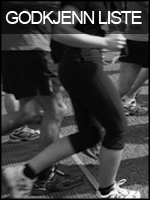
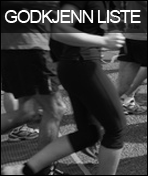
New UI

diff --git a/ITimeU/Content/Site.css b/ITimeU/Content/Site.css
@@ -448,11 +448,11 @@ table th
 ----------------------------------------------------------*/
 .background
 {
-	background-image: url("images/DefaultBG.png");
+	background-image: url("images/bgrunner.png");
 	background-repeat: no-repeat;
 	background-position: top;
 	width: 900px;
-	height: 601px; /*     opacity: .5;     filter: alpha(opacity=50);     -ms-filter: "progid:DXImageTransform.Microsoft.Alpha(Opacity=50)"; */
+	height: 600px;
 }
 .clear
 {
@@ -539,10 +539,24 @@ table th
 	cursor: hand;
 	cursor: pointer;
 }
-.menubg
+.menubg4
 {
-	padding-top: 220px;
-	padding-left: 144px;
+	padding-top: 200px;
+	padding-left: 154px;
+	background-position: center;
+	background-repeat: no-repeat;
+}
+.menubg3
+{
+	padding-top: 200px;
+	padding-left: 223px;
+	background-position: center;
+	background-repeat: no-repeat;
+}
+.menubg2
+{
+	padding-top: 200px;
+	padding-left: 300px;
 	background-position: center;
 	background-repeat: no-repeat;
 }

diff --git a/ITimeU/Models/AthleteModel.cs b/ITimeU/Models/AthleteModel.cs
@@ -23,7 +23,7 @@ namespace ITimeU.Models
         {
             get
             {
-                return FirstName + " " + LastName + (AthleteClass != null ? "(" + AthleteClass.Name + ")" : "");
+                return FirstName + " " + LastName + (AthleteClass != null ? " (" + AthleteClass.Name + ")" : "");
             }
         }
         public string PostalAddress { get; private set; }
@@ -102,9 +102,9 @@ namespace ITimeU.Models
                     AthleteModel athleteModel = new AthleteModel(athleteDb);
                     athleteModels.Add(athleteModel);
                     AthleteDic.Add(athleteModel.Id, athleteModel.FullName);
-                    
+
                 }
-            }                       
+            }
 
             return athleteModels.OrderBy(athlete => athlete.FirstName).ThenBy(athlete => athlete.LastName).ToList();
         }
@@ -170,7 +170,7 @@ namespace ITimeU.Models
             Gender = gender;
             PhoneNumber = phonenumber;
             Email = email;
-            
+
         }
 
         public AthleteModel()
@@ -185,7 +185,7 @@ namespace ITimeU.Models
             Id = id;
         }
 
-        
+
 
         /// <summary>
         /// Saves a list of athletes to the database.

diff --git a/ITimeU/Controllers/AthleteController.cs b/ITimeU/Controllers/AthleteController.cs
@@ -20,6 +20,11 @@ namespace ITimeU.Controllers
             return View(ClubModel.GetAll());
         }
 
+        public ActionResult Setup()
+        {
+            return View();
+        }
+
         private void setViewData()
         {
             ViewBag.Gender = getGender();
